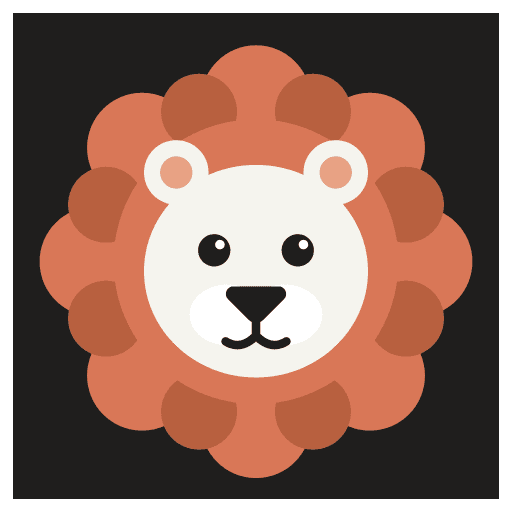
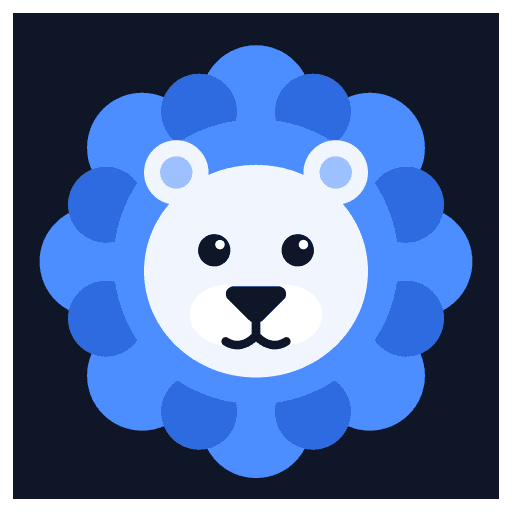
Ganze App in Dunkelblau, Löwe mit blauer Mähne

diff --git a/src/index.css b/src/index.css
@@ -6,24 +6,26 @@
 @import '@fontsource/ibm-plex-sans/latin-600.css';
 @import '@fontsource/ibm-plex-mono/latin-400.css';
 
-/* Design-Tokens aus CLAUDE.md – Farben, Schriften und Radien nur hier festlegen. */
+/* Design-Tokens – Farben, Schriften und Radien nur hier festlegen. Blau wie Leons YouTube-Kanal. */
 :root {
-  --hintergrund: #1f1e1d;
-  --flaeche: #2b2a27;
-  --flaeche-hervorgehoben: #30302d;
-  --flaeche-eingabe: #1a1918;
-  --rand: rgba(250, 249, 245, 0.1);
-  --rand-eingabe: #55524c;
-  --linie: #3d3c38;
+  --hintergrund: #0e1628;
+  --hintergrund-rgb: 14, 22, 40;
+  --flaeche: #16213a;
+  --flaeche-hervorgehoben: #1b2846;
+  --flaeche-eingabe: #0a1120;
+  --rand: rgba(226, 234, 255, 0.1);
+  --rand-eingabe: #3b4a6b;
+  --linie: #2a3756;
 
-  --text: #f5f4ee;
-  --text-zweitrangig: #d6d3ca;
-  --text-gedaempft: #a5a198;
+  --text: #f1f5fd;
+  --text-zweitrangig: #cbd5e8;
+  --text-gedaempft: #97a5c2;
 
-  --akzent: #d97757;
-  --akzent-text: #e58b6d;
-  --akzent-rand: rgba(217, 119, 87, 0.55);
-  --akzent-flaeche: #3b2c26;
+  --akzent: #4c8dff;
+  --akzent-rgb: 76, 141, 255;
+  --akzent-text: #8db6ff;
+  --akzent-rand: rgba(var(--akzent-rgb), 0.55);
+  --akzent-flaeche: #1d3360;
   --gut: #8fbf8a;
   --warnung: #f28b82;
   --warnung-balken: #e5534b;
@@ -32,14 +34,14 @@
   --hinweis-flaeche: rgba(212, 162, 76, 0.16);
   --hinweis-stark: #d4a24c;
   --hinweis-rand: rgba(212, 162, 76, 0.65);
-  --ausgaben: #a9c8e6;
-  --ausgaben-stark: #8ab4d9;
-  --ausgaben-flaeche: rgba(138, 180, 217, 0.16);
-  --ausgaben-rand: rgba(138, 180, 217, 0.55);
-  --balken-grau: #6b6862;
+  --ausgaben: #c9bcff;
+  --ausgaben-stark: #ab97fb;
+  --ausgaben-flaeche: rgba(171, 151, 251, 0.16);
+  --ausgaben-rand: rgba(171, 151, 251, 0.55);
+  --balken-grau: #5d6b8a;
   /* Etwas heller als im Design, damit der Kontrast mindestens 4.5:1 erreicht */
-  --text-platzhalter: #86827a;
-  --text-inaktiv: #b3afa6;
+  --text-platzhalter: #7f8dab;
+  --text-inaktiv: #aeb9d0;
 
   --schrift-serif: 'Source Serif 4', Georgia, serif;
   --schrift-text: 'IBM Plex Sans', system-ui, sans-serif;

diff --git a/vite.config.ts b/vite.config.ts
@@ -2,7 +2,7 @@
 import react from '@vitejs/plugin-react'
 import { defineConfig } from 'vite'
 import { VitePWA } from 'vite-plugin-pwa'
-import { APP_BESCHREIBUNG, APP_NAME } from './src/config.ts'
+import { APP_BESCHREIBUNG, APP_HINTERGRUND, APP_NAME } from './src/config.ts'
 
 // Bauanleitung der App.
 export default defineConfig({
@@ -11,12 +11,15 @@ export default defineConfig({
   plugins: [
     react(),
     {
-      // Setzt App-Name und Beschreibung aus config.ts in index.html ein.
+      // Setzt App-Name, Beschreibung und Hintergrundfarbe aus config.ts in index.html ein.
       name: 'app-name',
       transformIndexHtml: {
         order: 'pre',
         handler: (html) =>
-          html.replaceAll('%APP_NAME%', APP_NAME).replaceAll('%APP_BESCHREIBUNG%', APP_BESCHREIBUNG),
+          html
+            .replaceAll('%APP_NAME%', APP_NAME)
+            .replaceAll('%APP_BESCHREIBUNG%', APP_BESCHREIBUNG)
+            .replaceAll('%APP_HINTERGRUND%', APP_HINTERGRUND),
       },
     },
     VitePWA({
@@ -30,8 +33,8 @@ export default defineConfig({
         scope: '.',
         display: 'standalone',
         orientation: 'portrait',
-        background_color: '#1f1e1d',
-        theme_color: '#1f1e1d',
+        background_color: APP_HINTERGRUND,
+        theme_color: APP_HINTERGRUND,
         icons: [
           { src: 'pwa-64x64.png', sizes: '64x64', type: 'image/png' },
           { src: 'pwa-192x192.png', sizes: '192x192', type: 'image/png' },

diff --git a/src/screens/screens.css b/src/screens/screens.css
@@ -10,8 +10,8 @@
   height: 790px;
   transform: translateX(-50%);
   border-radius: 50%;
-  border: 1.5px solid rgba(217, 119, 87, 0.45);
-  box-shadow: 0 14px 48px rgba(217, 119, 87, 0.22);
+  border: 1.5px solid rgba(var(--akzent-rgb), 0.45);
+  box-shadow: 0 14px 48px rgba(var(--akzent-rgb), 0.22);
   pointer-events: none;
 }
 
@@ -542,8 +542,8 @@
   height: 910px;
   transform: translateX(-50%);
   border-radius: 50%;
-  border: 1.5px solid rgba(217, 119, 87, 0.55);
-  box-shadow: 0 12px 40px rgba(217, 119, 87, 0.22);
+  border: 1.5px solid rgba(var(--akzent-rgb), 0.55);
+  box-shadow: 0 12px 40px rgba(var(--akzent-rgb), 0.22);
   pointer-events: none;
 }
 
@@ -747,7 +747,7 @@
 }
 
 .diagramm__flaeche {
-  fill: rgba(217, 119, 87, 0.14);
+  fill: rgba(var(--akzent-rgb), 0.14);
 }
 
 .diagramm__gewaehlt {
@@ -1073,9 +1073,9 @@
   gap: 8px;
   padding: 16px 18px;
   border-radius: 20px;
-  border: 1.5px solid rgba(217, 119, 87, 0.6);
+  border: 1.5px solid rgba(var(--akzent-rgb), 0.6);
   background: var(--flaeche);
-  box-shadow: 0 0 28px -12px rgba(217, 119, 87, 0.8);
+  box-shadow: 0 0 28px -12px rgba(var(--akzent-rgb), 0.8);
   text-align: left;
 }
 

diff --git a/pwa-assets.config.ts b/pwa-assets.config.ts
@@ -1,12 +1,13 @@
 import { defineConfig, minimal2023Preset } from '@vite-pwa/assets-generator/config'
+import { APP_HINTERGRUND } from './src/config.ts'
 
 // Erzeugt aus public/icon.svg alle Icon-Größen für iPhone, Android und Browser-Tab.
 export default defineConfig({
   headLinkOptions: { preset: '2023' },
   preset: {
     ...minimal2023Preset,
-    maskable: { ...minimal2023Preset.maskable, resizeOptions: { background: '#1f1e1d' } },
-    apple: { ...minimal2023Preset.apple, resizeOptions: { background: '#1f1e1d' } },
+    maskable: { ...minimal2023Preset.maskable, resizeOptions: { background: APP_HINTERGRUND } },
+    apple: { ...minimal2023Preset.apple, resizeOptions: { background: APP_HINTERGRUND } },
   },
   images: ['public/icon.svg'],
 })

diff --git a/src/ui/ui.css b/src/ui/ui.css
@@ -132,7 +132,7 @@
   z-index: 1;
   margin: auto -24px calc(-1 * (env(safe-area-inset-bottom) + 40px));
   padding: 18px 24px calc(env(safe-area-inset-bottom) + 40px);
-  background: linear-gradient(to bottom, rgba(31, 30, 29, 0), var(--hintergrund) 18px);
+  background: linear-gradient(to bottom, rgba(var(--hintergrund-rgb), 0), var(--hintergrund) 18px);
 }
 
 @media (prefers-reduced-motion: reduce) {
@@ -156,7 +156,7 @@
   grid-template-columns: repeat(3, 78px);
   justify-content: space-evenly;
   padding: 8px 6px calc(env(safe-area-inset-bottom) + 12px);
-  background: rgba(31, 30, 29, 0.97);
+  background: rgba(var(--hintergrund-rgb), 0.97);
   border-top: 1px solid var(--linie);
 }
 

diff --git a/src/config.ts b/src/config.ts
@@ -6,6 +6,9 @@ export const APP_NAME = 'Löwen Finance'
 /** Wird oben auf dem Start-Screen als „by …“ gezeigt. */
 export const APP_AUTOR = 'Leon Happel'
 
+/** Hintergrundfarbe für Home-Bildschirm, Startbild und Browser-Leiste (wie --hintergrund in index.css). */
+export const APP_HINTERGRUND = '#0e1628'
+
 /** Kurzbeschreibung für den Home-Bildschirm und die Suche. */
 export const APP_BESCHREIBUNG = 'Zeigt aus deinem Kontoexport, wohin dein Geld geht. Alles bleibt auf deinem Gerät.'
 

diff --git a/index.html b/index.html
@@ -3,7 +3,7 @@
   <head>
     <meta charset="UTF-8" />
     <meta name="viewport" content="width=device-width, initial-scale=1.0, viewport-fit=cover" />
-    <meta name="theme-color" content="#1f1e1d" />
+    <meta name="theme-color" content="%APP_HINTERGRUND%" />
     <meta name="description" content="%APP_BESCHREIBUNG%" />
     <meta name="apple-mobile-web-app-capable" content="yes" />
     <meta name="apple-mobile-web-app-status-bar-style" content="black-translucent" />

diff --git a/CLAUDE.md b/CLAUDE.md
@@ -49,16 +49,17 @@ docs/                  RECHENKERN.md, ROADMAP.md, design/
 
 ## Design
 
-Vorlage: `docs/design/screens/*.png` und die klickbare Demo `docs/design/klick-demo.html`. Nachbauen, nicht neu erfinden.
+Vorlage: `docs/design/screens/*.png` und die klickbare Demo `docs/design/klick-demo.html`. Aufbau und Abstände nachbauen, nicht neu erfinden. Farben: Die Vorlage ist noch braun/orange, die App ist seit Phase 3 blau (Tabelle unten, Werte in `src/index.css`).
 
 | Token | Wert |
 | --- | --- |
-| Hintergrund | `#1f1e1d` |
-| Fläche / Karte | `#2b2a27`, hervorgehoben `#30302d` |
-| Rand | `rgba(250,249,245,0.10)`, Linien/Balkenspur `#3d3c38` |
-| Text | `#f5f4ee`, zweitrangig `#d6d3ca`, gedämpft `#a5a198` |
-| Akzent | `#D97757` (Buttons, aktiver Tab, Balken) |
+| Hintergrund | `#0e1628` (Dunkelblau, wie Leons YouTube-Kanal) |
+| Fläche / Karte | `#16213a`, hervorgehoben `#1b2846` |
+| Rand | `rgba(226,234,255,0.10)`, Linien/Balkenspur `#2a3756` |
+| Text | `#f1f5fd`, zweitrangig `#cbd5e8`, gedämpft `#97a5c2` |
+| Akzent | `#4c8dff` (Buttons, aktiver Tab, Balken), als Text `#8db6ff` |
 | Gut / Warnung / Hinweis | `#8fbf8a` / `#f28b82` (Balken `#e5534b`) / `#e3b862` |
+| Ausgaben-Schritte | Lavendel `#c9bcff` |
 | Schriften | Überschriften und große Zahlen: Source Serif 4 (600). Text: IBM Plex Sans. Kleine Labels in Großbuchstaben: IBM Plex Mono |
 | Radien | Karten 18–22 px, Buttons 14–16 px, Chips rund |
 
